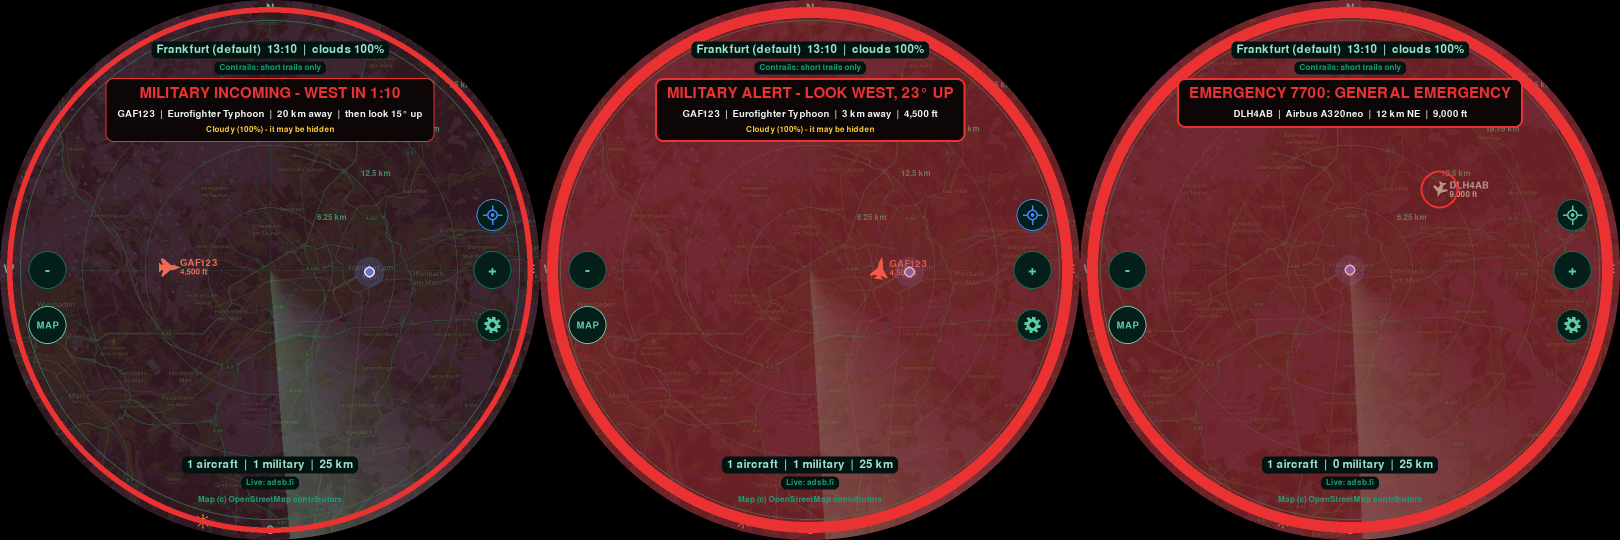
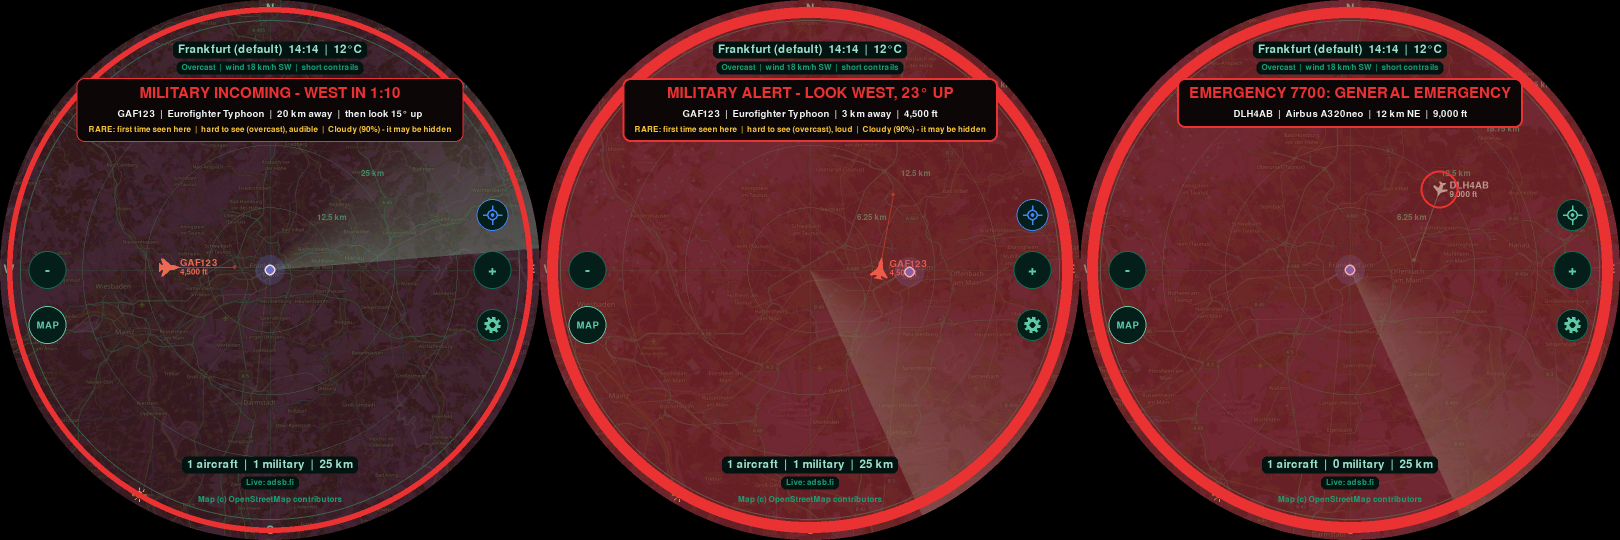
Add live weather feature with detailed forecast and UI integration

diff --git a/sky_radar.py b/sky_radar.py
@@ -1409,6 +1409,94 @@ class TrafficScreen:
         self.rects.append((rect, self.settings.done))
 
 
+class WeatherScreen:
+    """Live weather at home: now, details and the next 12 hours."""
+
+    def __init__(self, settings):
+        self.settings = settings
+        self.rects = []
+
+    def reset(self):
+        self.settings.ui.weather.refresh()
+
+    def update(self, now):
+        pass
+
+    def type_text(self, t):
+        pass
+
+    def key(self, k):
+        pass
+
+    def tap(self, x, y):
+        for rect, action in self.rects:
+            if rect.collidepoint(x, y):
+                action()
+                return
+
+    def draw(self, ui, now):
+        self.rects = []
+        w = ui.weather
+        cur = w.now
+        age = int((now - w.updated) // 60) if w.updated else None
+        sub = self.settings.location.name + (f"  |  updated {age} min ago" if age else "  |  just updated" if age == 0 else "")
+        draw_screen_bg(ui, "Weather", sub)
+        cv = ui.canvas
+        if not cur:
+            ui.blit_text("Loading weather...", 30, TEXT_DIM, (C, 420))
+        else:
+            # now: icon, big temperature, condition
+            draw_weather_icon(cv, cur.get("weather_code"), cur.get("is_day") == 1, C - 170, 285, 100)
+            ui.blit_text(fmt_temp(cur.get("temperature_2m")), 80, TEXT, (C - 80, 270), "midleft")
+            ui.blit_text(w.condition(), 32, TEXT, (C + 100, 255), "midleft")
+            ui.blit_text(f"feels like {fmt_temp(cur.get('apparent_temperature'))}", 24, TEXT_DIM, (C + 100, 292), "midleft")
+            # details in two columns
+            gust = cur.get("wind_gusts_10m")
+            vis = w.visibility_km
+            rows = [("Wind", w.wind() + (f", gusts {fmt_speed_kmh(gust)}" if isinstance(gust, (int, float)) and gust >= 25 else "")),
+                    ("Clouds", f"{cur.get('cloud_cover', '-')}%  (low {cur.get('cloud_cover_low', '-')}, "
+                               f"mid {cur.get('cloud_cover_mid', '-')}, high {cur.get('cloud_cover_high', '-')})"),
+                    ("Humidity", f"{cur.get('relative_humidity_2m', '-')}%"),
+                    ("Visibility", fmt_dist(round(vis)) if isinstance(vis, (int, float)) and vis >= 1 else
+                     (fmt_dist(round(vis, 2)) if isinstance(vis, (int, float)) else "-")),
+                    ("Pressure", f"{round(cur['pressure_msl'])} hPa" if isinstance(cur.get("pressure_msl"), (int, float)) else "-"),
+                    ("Rain now", f"{cur.get('precipitation', 0):g} mm"),
+                    ("Sun", f"rise {w.sun.get('rise', '-')}, set {w.sun.get('set', '-')}" if w.sun else "-"),
+                    ("Contrails", w.contrails or "-")]
+            for i, (label, value) in enumerate(rows):
+                cx = C - 320 + (i % 2) * 340
+                cy = 350 + (i // 2) * 62
+                ui.blit_text(label, 22, TEXT_DIM, (cx, cy), "topleft")
+                ui.blit_text(value[:30], 26, TEXT, (cx, cy + 24), "topleft")
+            # next 12 hours
+            y0 = 615
+            hours = w.hours[:12]
+            if hours:
+                cw = 660 / len(hours)
+                pygame.draw.rect(cv, SCOPE_BG, pygame.Rect(C - 340, y0 - 12, 680, 168), border_radius=12)
+                for i, h in enumerate(hours):
+                    cx = C - 330 + cw * i + cw / 2
+                    hh = int(h["time"][11:13])
+                    label = "now" if i == 0 else (f"{hh % 12 or 12}{'a' if hh < 12 else 'p'}" if UNITS["clock"] == "12h" else f"{hh:02d}")
+                    ui.blit_text(label, 22, TEXT_DIM, (cx, y0 + 6))
+                    draw_weather_icon(cv, h["code"], h["day"] == 1, cx, y0 + 50, 34)
+                    ui.blit_text(fmt_temp(h["temp"]), 22, TEXT, (cx, y0 + 92))
+                    rain = h.get("rain") or 0
+                    ui.blit_text(f"{rain}%", 20, (110, 170, 240) if rain >= 30 else TEXT_DIM, (cx, y0 + 120))
+                best = w.best_hour()
+                tip = (f"Clearest sky for spotting: {fmt_clock(time.mktime(time.strptime(best['time'], '%Y-%m-%dT%H:%M')))}"
+                       f" ({best['cloud']}% cloud)") if best else "No daylight left in the next 12 hours"
+                if best and best["cloud"] >= 85:
+                    tip = "Overcast all day - low jets only, high ones stay hidden"
+                ui.blit_text(tip, 24, SELECT, (C, y0 + 182))
+                ui.blit_text("rain chance in blue", 20, TEXT_DIM, (C, y0 + 210))
+        rect = pygame.Rect(0, 0, 220, 64)
+        rect.midtop = (C, 860)
+        draw_button(ui, rect, "Back", primary=True)
+        self.rects.append((rect, self.settings.done))
+        ui.blit_text("Weather data: Open-Meteo", 20, TEXT_DIM, (C, 950))
+
+
 # --------------------------------------------------------------------------- settings menu
 class Settings:
     """Settings menu (gear button) and the first-run setup: Wi-Fi, then location."""
@@ -1420,7 +1508,8 @@ class Settings:
         self.wifi = FakeWifi() if os.environ.get("SKY_RADAR_FAKE_WIFI") else NmcliWifi()
         self.screens = {"location": LocationScreen(self), "wifi": WifiScreen(self), "directions": DirectionsScreen(self),
                         "sightings": SightingsScreen(self), "airport": AirportScreen(self),
-                        "feed": FeedStatusScreen(self), "places": PlacesScreen(self), "traffic": TrafficScreen(self)}
+                        "feed": FeedStatusScreen(self), "places": PlacesScreen(self), "traffic": TrafficScreen(self),
+                        "weather": WeatherScreen(self)}
         prefs = load_prefs()
         self.max_alt = int(prefs.get("max_alt_ft", 0) or 0)            # 0 = show all heights
         self.theme = prefs.get("theme", "green") if prefs.get("theme") in THEMES else "green"
@@ -1459,6 +1548,11 @@ class Settings:
         self.from_menu = True
         self.flow = []
         self.show("menu")
+
+    def open_weather(self):
+        """Straight from the radar: Back returns to the radar."""
+        self.from_menu, self.flow = False, []
+        self.show("weather")
 
     def show(self, name):
         self.screen = name
@@ -1781,6 +1875,8 @@ class Settings:
                 ("Sightings", f"{self.ui.sightings.today()} today, {self.ui.sightings.count_since(7 * 86400)} this week",
                  lambda: self.show("sightings")),
                 ("Airport board", self._airport_label(), lambda: self.show("airport")),
+                ("Weather", (f"{self.ui.weather.label()}, {self.ui.weather.condition().lower()}"
+                             if self.ui.weather.now else "Live weather at your location"), lambda: self.show("weather")),
                 ("Traffic", "Aircraft around you over the last 24 hours", lambda: self.show("traffic")),
                 ("Replay", f"Rewind up to {max(1, round((time.time() - hist[0][0]) / 60))} min" if hist
                  else "Nothing recorded yet", self._start_replay if hist else None)]),
@@ -2511,31 +2607,173 @@ class AutoUpdater:
 
 
 # --------------------------------------------------------------------------- weather
+WMO_TEXT = {0: "Clear", 1: "Mainly clear", 2: "Partly cloudy", 3: "Overcast", 45: "Fog", 48: "Freezing fog",
+            51: "Light drizzle", 53: "Drizzle", 55: "Heavy drizzle", 56: "Freezing drizzle", 57: "Freezing drizzle",
+            61: "Light rain", 63: "Rain", 65: "Heavy rain", 66: "Freezing rain", 67: "Freezing rain",
+            71: "Light snow", 73: "Snow", 75: "Heavy snow", 77: "Snow grains", 80: "Light showers", 81: "Showers",
+            82: "Heavy showers", 85: "Snow showers", 86: "Heavy snow showers", 95: "Thunderstorm",
+            96: "Thunderstorm, hail", 99: "Thunderstorm, hail"}
+
+
+def weather_kind(code):
+    """Icon family for a WMO weather code."""
+    if code is None:
+        return "cloud"
+    if code <= 1:
+        return "clear"
+    if code == 2:
+        return "partly"
+    if code == 3:
+        return "cloud"
+    if code in (45, 48):
+        return "fog"
+    if code >= 95:
+        return "storm"
+    if code in (71, 73, 75, 77, 85, 86):
+        return "snow"
+    return "rain"
+
+
+def fmt_temp(c):
+    if not isinstance(c, (int, float)):
+        return "-"
+    return f"{round(c * 9 / 5 + 32)}\u00b0F" if UNITS["dist"] == "mi" else f"{round(c)}\u00b0C"
+
+
+def fmt_speed_kmh(kmh):
+    if not isinstance(kmh, (int, float)):
+        return "-"
+    return f"{round(kmh * 0.621371)} mph" if UNITS["dist"] == "mi" else f"{round(kmh)} km/h"
+
+
+def draw_weather_icon(cv, code, is_day, x, y, size):
+    """Small weather symbol centred on (x, y): sun/moon, cloud, rain, snow, fog or storm."""
+    kind = weather_kind(code)
+    u = size / 40
+    sun_col, cloud_col, drop_col = (250, 200, 60), (190, 205, 210), (110, 170, 240)
+
+    def sun(cx, cy, r):
+        if is_day:
+            for k in range(8):
+                a = math.radians(k * 45)
+                pygame.draw.line(cv, sun_col, (cx + (r + 3 * u) * math.cos(a), cy + (r + 3 * u) * math.sin(a)),
+                                 (cx + (r + 8 * u) * math.cos(a), cy + (r + 8 * u) * math.sin(a)), max(1, int(2 * u)))
+            pygame.draw.circle(cv, sun_col, (cx, cy), r)
+        else:                                                    # moon: a circle with a bite out of it
+            pygame.draw.circle(cv, (225, 225, 200), (cx, cy), r)
+            pygame.draw.circle(cv, PANEL_BG, (cx + r * 0.45, cy - r * 0.3), r * 0.85)
+
+    def cloud(cx, cy, col=cloud_col):
+        for dx, dy, r in ((-9, 3, 8), (0, -3, 11), (10, 2, 9)):
+            pygame.draw.circle(cv, col, (cx + dx * u, cy + dy * u), r * u)
+        pygame.draw.rect(cv, col, pygame.Rect(cx - 17 * u, cy + 2 * u, 36 * u, 9 * u), border_radius=int(4 * u))
+
+    if kind == "clear":
+        sun(x, y, 11 * u)
+    elif kind == "partly":
+        sun(x - 7 * u, y - 7 * u, 9 * u)
+        cloud(x + 3 * u, y + 3 * u)
+    elif kind == "fog":
+        for k in range(4):
+            pygame.draw.line(cv, cloud_col, (x - 16 * u + (k % 2) * 4 * u, y - 10 * u + k * 7 * u),
+                             (x + 16 * u - (k % 2) * 4 * u, y - 10 * u + k * 7 * u), max(2, int(3 * u)))
+    else:
+        cloud(x, y - 5 * u, (150, 160, 170) if kind in ("rain", "storm", "snow") else cloud_col)
+        if kind == "rain":
+            for dx in (-9, 0, 9):
+                pygame.draw.line(cv, drop_col, (x + dx * u, y + 10 * u), (x + (dx - 3) * u, y + 18 * u), max(1, int(2 * u)))
+        elif kind == "snow":
+            for dx in (-9, 0, 9):
+                pygame.draw.circle(cv, (235, 240, 245), (x + dx * u, y + 14 * u), max(1, 2.5 * u))
+        elif kind == "storm":
+            pygame.draw.polygon(cv, sun_col, [(x + 2 * u, y + 6 * u), (x - 5 * u, y + 15 * u), (x, y + 15 * u),
+                                              (x - 3 * u, y + 22 * u), (x + 6 * u, y + 12 * u), (x + 1 * u, y + 12 * u)])
+
+
 class Weather:
-    """Cloud cover at home from Open-Meteo, refreshed every 15 minutes (position rounded to ~1 km)."""
+    """Live weather at home from Open-Meteo (free, no key), refreshed every 10 minutes.
+    Only a position rounded to about 1 km is sent."""
+
+    CURRENT = ("temperature_2m,apparent_temperature,relative_humidity_2m,weather_code,is_day,cloud_cover,"
+               "cloud_cover_low,cloud_cover_mid,cloud_cover_high,visibility,wind_speed_10m,wind_direction_10m,"
+               "wind_gusts_10m,precipitation,pressure_msl")
+    HOURLY = "temperature_2m,cloud_cover,precipitation_probability,weather_code,is_day"
 
     def __init__(self, location):
         self.location = location
         self.cloud = None          # percent
         self.visibility_km = None
         self.contrails = ""        # e.g. "long trails likely"
+        self.now = {}              # the "current" block from Open-Meteo
+        self.hours = []            # next 12 hours: dicts with time, temp, cloud, rain, code, day
+        self.sun = {}              # today's sunrise / sunset ("HH:MM")
+        self.updated = 0.0
+        self.wake = threading.Event()
         threading.Thread(target=self._run, daemon=True).start()
+
+    def refresh(self):
+        self.wake.set()
 
     def _run(self):
         while True:
             lat, lon = self.location.current()
             try:
-                url = f"{WEATHER_URL}?latitude={lat:.2f}&longitude={lon:.2f}&current=cloud_cover,visibility"
+                url = (f"{WEATHER_URL}?latitude={lat:.2f}&longitude={lon:.2f}&timezone=auto&forecast_days=2"
+                       f"&current={self.CURRENT}&hourly={self.HOURLY}&daily=sunrise,sunset")
                 req = urllib.request.Request(url, headers={"User-Agent": "sky-radar/0.1"})
                 with urllib.request.urlopen(req, timeout=10) as resp:
-                    cur = json.load(resp).get("current", {})
+                    data = json.load(resp)
+                cur = data.get("current", {})
+                self.now = cur
                 self.cloud = cur.get("cloud_cover")
                 vis = cur.get("visibility")
                 self.visibility_km = vis / 1000 if isinstance(vis, (int, float)) else None
+                h = data.get("hourly", {})
+                hour_now = (cur.get("time") or "")[:13]
+                self.hours = [{"time": t, "temp": h["temperature_2m"][i], "cloud": h["cloud_cover"][i],
+                               "rain": h["precipitation_probability"][i], "code": h["weather_code"][i],
+                               "day": h["is_day"][i]}
+                              for i, t in enumerate(h.get("time", [])) if t[:13] >= hour_now][:12]
+                d = data.get("daily", {})
+                self.sun = {"rise": (d.get("sunrise") or [""])[0][-5:], "set": (d.get("sunset") or [""])[0][-5:]}
+                self.updated = time.time()
                 self.contrails = self._contrails(lat, lon)
             except Exception:
-                pass                       # keep the last value; try again later
-            time.sleep(15 * 60)
+                pass                       # keep the last values; try again later
+            self.wake.wait(10 * 60)
+            self.wake.clear()
+
+    def condition(self):
+        code = self.now.get("weather_code")
+        text = WMO_TEXT.get(code, "")
+        if code in (0, 1) and self.now.get("is_day") == 1:
+            text = "Sunny" if code == 0 else "Mostly sunny"
+        return text
+
+    def wind(self):
+        sp, dr = self.now.get("wind_speed_10m"), self.now.get("wind_direction_10m")
+        if not isinstance(sp, (int, float)):
+            return ""
+        if sp < 2 or not isinstance(dr, (int, float)):
+            return "calm"
+        # wind direction is where it comes FROM
+        return f"{fmt_speed_kmh(sp)} {compass_direction(math.sin(math.radians(dr)), math.cos(math.radians(dr)))}"
+
+    def hud_line(self):
+        """Short line under the clock, e.g. "Overcast | wind 18 km/h SW | short contrails"."""
+        if not self.now:
+            return f"Contrails: {self.contrails}" if self.contrails else ""
+        trails = {"long trails likely": "long contrails", "short trails only": "short contrails",
+                  "no trails expected": "no contrails"}.get(self.contrails, "")
+        wind = self.wind()
+        return "  |  ".join(x for x in (self.condition(), f"wind {wind}" if wind else "", trails) if x)
+
+    def best_hour(self):
+        """Clearest daylight hour in the next 12 h, for the spotting tip."""
+        day = [h for h in self.hours if h.get("day") and isinstance(h.get("cloud"), (int, float))]
+        if not day:
+            return None
+        return min(day, key=lambda h: h["cloud"] + (h.get("rain") or 0))
 
     @staticmethod
     def _contrails(lat, lon):
@@ -2559,6 +2797,9 @@ class Weather:
         return {"long": "long trails likely", "short": "short trails only", "none": "no trails expected"}[best]
 
     def label(self):
+        temp = self.now.get("temperature_2m")
+        if isinstance(temp, (int, float)):
+            return fmt_temp(temp)
         return f"clouds {round(self.cloud)}%" if isinstance(self.cloud, (int, float)) else ""
 
     def spotting_hint(self):
@@ -3041,6 +3282,9 @@ class Radar:
                 (abs(x - C) < 200 and abs(y - 100) < 25):      # gear button or the place name
             self.settings.open_menu()
             return
+        if abs(x - C) < 260 and abs(y - 136) < 16 and self.weather.now and not getattr(self, "alert_rect", None):
+            self.settings.open_weather()                        # tap the weather line
+            return
         for (bx, by), step in ((self.btn_minus, 1), (self.btn_plus, -1)):
             if math.hypot(x - bx, y - by) < 50:
                 self.zoom(step)
@@ -3173,8 +3417,9 @@ class Radar:
         hud_bg = PANEL_BG
         place = self.location.name
         clouds = self.weather.label()
-        if self.weather.contrails:
-            self.blit_text(f"Contrails: {self.weather.contrails}", 24, TEXT_DIM, (C, 136), bg=hud_bg)
+        wline = self.weather.hud_line()
+        if wline:
+            self.blit_text(wline, 24, TEXT_DIM, (C, 136), bg=hud_bg)
         self.blit_text(f"{place}  {fmt_clock()}" + (f"  |  {clouds}" if clouds else ""), 34, TEXT, (C, 100), bg=hud_bg)
         summary = f"{len(in_range)} aircraft  |  {mil_count} military  |  {fmt_dist(self.range_km)}" + (
             f"  |  < {fmt_alt_ft(self.settings.max_alt)}" if self.settings.max_alt else "")

diff --git a/README.md b/README.md
@@ -28,6 +28,12 @@ Built for the Waveshare 5" round 1080x1080 HDMI touch display, but it runs on an
   the card says where, e.g. "Orbiting 40 km NW, 2 laps in 20 min". Often a sign that fighters are training nearby
 - **Rare visitors:** if a military type has never been in your sightings log before, the alert and card say
   **"RARE: first time seen here"**
+- **Live weather:** the top of the radar shows the temperature, the sky (e.g. "Overcast"), the wind and the
+  contrail outlook, refreshed every 10 minutes from Open-Meteo. Tap that line (or **Settings → Weather**) for the
+  full picture: feels-like temperature, wind and gusts, cloud layers (low, mid, high), humidity, visibility,
+  pressure, rain, sunrise and sunset, the next 12 hours with rain chances, and the clearest hour for spotting
+
+  <img src="docs/weather.png" width="360" alt="Weather screen: now, details and the next 12 hours">
 - Tap a plane for a small details card. It appears on the half of the screen away from the plane, so the plane stays visible:
   - **Civil:** model (e.g. Airbus A320neo), airline, from → to, altitude, speed in knots, and arrival time at the destination
   - **Military:** model (e.g. Eurofighter Typhoon, F-35, Rafale), operator, altitude, speed,
@@ -46,8 +52,7 @@ Built for the Waveshare 5" round 1080x1080 HDMI touch display, but it runs on an
     (`warning_lead_seconds` in `config.json`, 0 turns it off)
   - **Settings → Alert directions:** tap the compass directions you can actually see from (for example only W for a
     west-facing balcony). Planes in the other directions don't trigger alerts. **All** = alerts from every direction
-  - **Weather check:** cloud cover from Open-Meteo is shown at the top ("clouds 85%"), and alerts add
-    "Cloudy - it may be hidden" when the sky is overcast or visibility is poor
+  - **Weather check:** alerts add "Cloudy - it may be hidden" when the sky is overcast or visibility is poor
   - **Contrail forecast:** a line under the top bar says whether planes at cruising height leave long trails,
     short trails or none today (temperature and humidity at ~34,000 ft from Open-Meteo). Long trails make high jets
     much easier to spot
@@ -99,6 +104,7 @@ Built for the Waveshare 5" round 1080x1080 HDMI touch display, but it runs on an
   - **Views**
     - **Sightings:** the list of military aircraft seen near you, with Best times and Records
     - **Airport board:** arrivals and departures at your nearest airports
+    - **Weather:** live weather and the next 12 hours
     - **Traffic:** the 24-hour traffic chart
     - **Replay:** the last 30 minutes
   - **Display**
@@ -124,10 +130,10 @@ Built for the Waveshare 5" round 1080x1080 HDMI touch display, but it runs on an
 the same jet in your zone ("LOOK WEST, 23° UP"), and an airliner squawking 7700. The cloud hint appears because it was
 overcast. The small sun on the edge shows where the sun is.*
 
-![Settings, alert directions, sightings, location search and Wi-Fi](docs/settings.png)
+![Settings list, alert directions, saved places, traffic chart, weather and replay](docs/settings.png)
 
-*The settings list (scrolled to each section), alert directions (west side selected), replay, the 24-hour traffic chart (example data)
-and saved places.*
+*The settings list (scrolled to each section), alert directions (west side selected), saved places, the 24-hour traffic
+chart (example data), live weather and replay.*
 
 ![Colour themes: green, amber, blue, red](docs/themes.png)
 
@@ -213,7 +219,7 @@ Only a rounded position (about 1 km) is sent to the flight API.
 For the "how high to look" angle, your home's ground height is looked up once from
 [Open-Meteo](https://open-meteo.com) using a position rounded to about 100 m, then cached in `prefs.json`.
 To skip that, set `home_elevation_m` in `config.json` (metres above sea level).
-Cloud cover comes from Open-Meteo too, using a position rounded to about 1 km.
+Weather comes from Open-Meteo too, using a position rounded to about 1 km.
 Your sightings log (`sightings.json`), traffic history (`traffic.json`), settings and saved places (`prefs.json`)
 stay on the device and are git-ignored.
 
